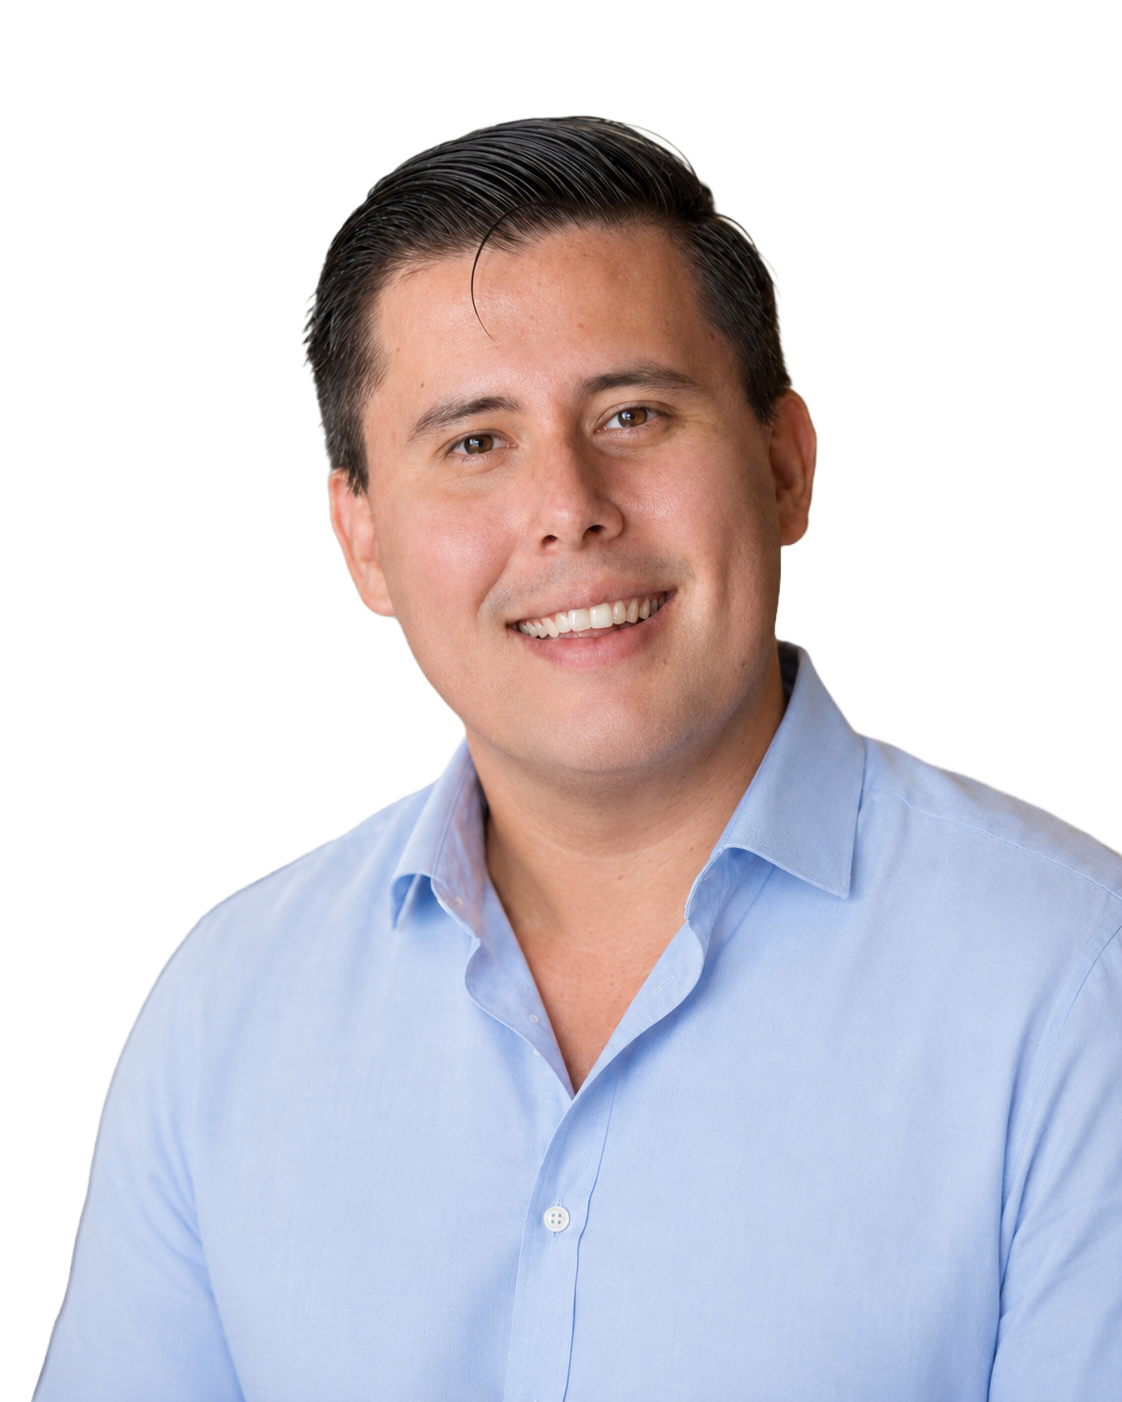
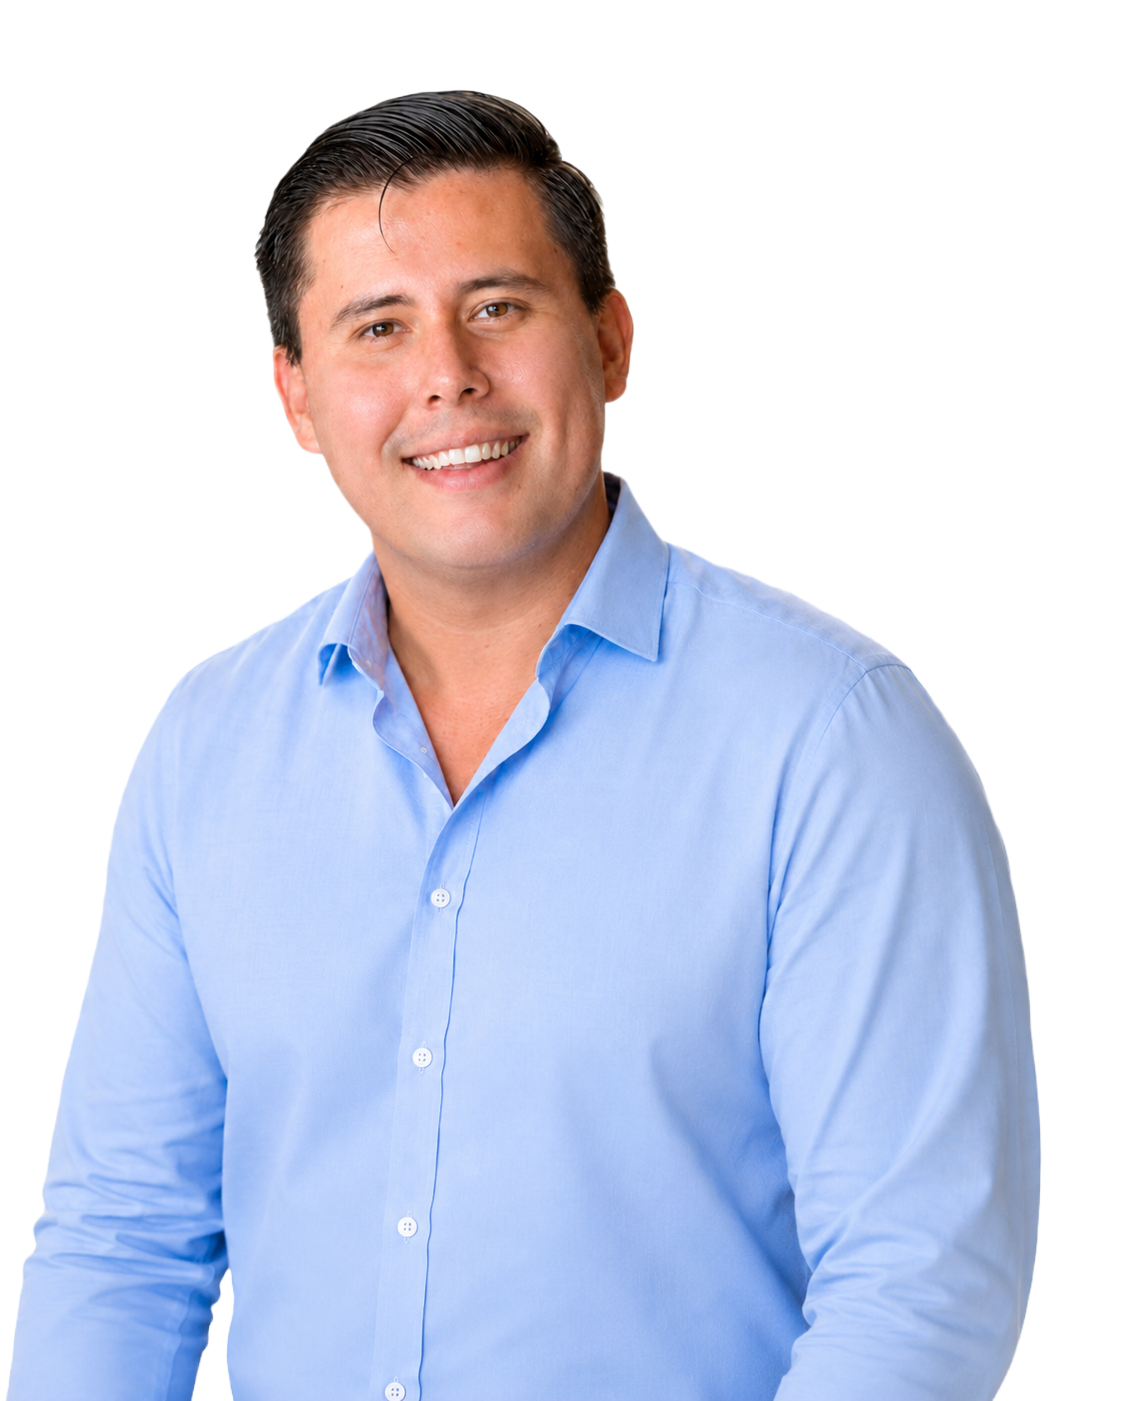
changed background image

diff --git a/css/styles.css b/css/styles.css
@@ -382,10 +382,29 @@ main[id] {
    ========================================================================== */
 
 .hero {
+  position: relative;
   padding-block: var(--space-xl) var(--space-lg);
 }
 
+/* Full-width band behind the hero. Height is set in px by JS (main.js) to
+   land exactly at the bottom of the photo, then it stops — it does not
+   cover the whole section or bleed into later sections. */
+.hero-backdrop {
+  position: absolute;
+  top: 0;
+  left: 0;
+  width: 100%;
+  z-index: 0;
+  background-image: url("../assets/blue-hero-background.png");
+  background-repeat: no-repeat;
+  background-position: top center;
+  background-size: cover;
+  pointer-events: none;
+}
+
 .hero-inner {
+  position: relative;
+  z-index: 1;
   display: flex;
   flex-direction: column-reverse;
   align-items: center;
@@ -434,21 +453,15 @@ main[id] {
   }
 }
 
-/* Shrink-wrapped to the photo's own size (inline-block), so the backdrop
-   image below is positioned against a box that's exactly the photo's
-   dimensions — its bottom edge lines up with the bottom edge of the photo
-   by definition, at any screen size. */
+/* Shrink-wrapped to the photo's own size — this is also the element JS
+   measures against to size .hero-backdrop (see main.js). */
 .hero-image {
   position: relative;
   display: inline-block;
-  background-image: url("../assets/blue-hero-background.png");
-  background-repeat: no-repeat;
-  background-position: right bottom;
-  background-size: cover;
 }
 
 /* No circular crop — this is a transparent-background cutout PNG, so it
-   should float directly on the page background rather than be masked. */
+   should float directly on the backdrop rather than be masked. */
 .hero-image img {
   width: 240px;
   display: block;

diff --git a/js/main.js b/js/main.js
@@ -68,4 +68,31 @@ document.addEventListener("DOMContentLoaded", () => {
 
     typeNextChar();
   }
+
+  // Hero backdrop sizing: the full-width backdrop band (.hero-backdrop) is
+  // "position: absolute; top: 0" with no height set in CSS, because the
+  // right height depends on where the photo ends — which shifts depending
+  // on screen size (stacked on mobile, side-by-side on desktop). Instead
+  // of guessing that in CSS, measure it: the band's height is the distance
+  // from the top of .hero down to the bottom of .hero-image, so the band
+  // always stops exactly at the bottom edge of the photo. Only present on
+  // index.html, so this quietly does nothing on the Credentials page.
+  function sizeHeroBackdrop() {
+    const hero = document.querySelector(".hero");
+    const heroImage = document.querySelector(".hero-image");
+    const backdrop = document.querySelector(".hero-backdrop");
+
+    if (!hero || !heroImage || !backdrop) return;
+
+    const heroTop = hero.getBoundingClientRect().top;
+    const imageBottom = heroImage.getBoundingClientRect().bottom;
+    backdrop.style.height = Math.round(imageBottom - heroTop) + "px";
+  }
+
+  sizeHeroBackdrop();
+
+  // Re-measure once everything (including the photo) has fully loaded, and
+  // again whenever the window is resized or rotated.
+  window.addEventListener("load", sizeHeroBackdrop);
+  window.addEventListener("resize", sizeHeroBackdrop);
 });

diff --git a/index.html b/index.html
@@ -62,6 +62,12 @@
        their real content arrives in Slices 4 and 5. -->
   <main>
     <section id="home" class="hero">
+      <!-- Full-width backdrop band. Its height is set by JS (see main.js)
+           to match the distance from the top of the hero to the bottom of
+           the photo — so it reads as a band behind the hero, not a
+           background that wraps the photo or bleeds into later sections. -->
+      <div class="hero-backdrop" aria-hidden="true"></div>
+
       <div class="container hero-inner">
 
         <div class="hero-text">